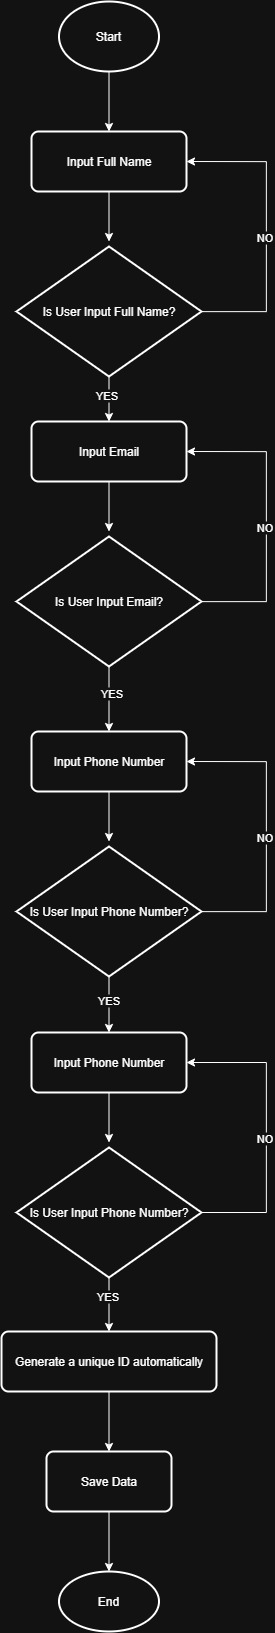
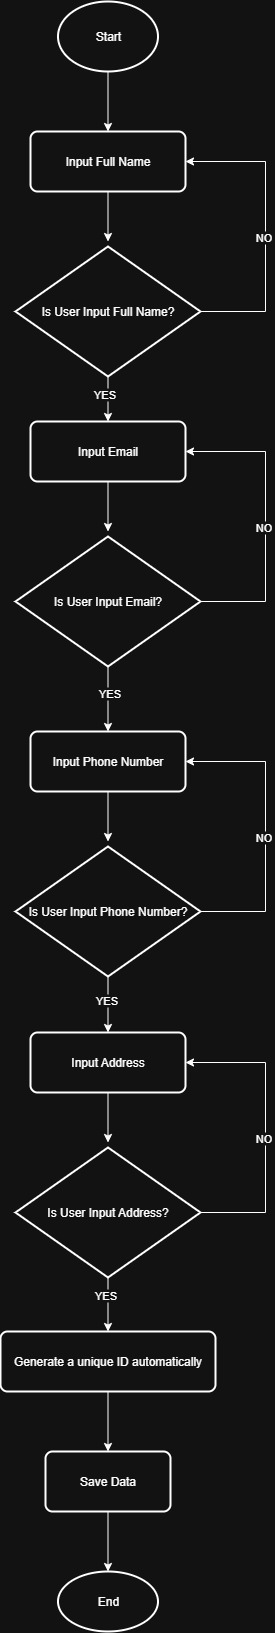
chore: add pseudocode create data contact

diff --git a/index.js b/index.js
@@ -26,3 +26,7 @@ const contactsData = [
 ];
 
 console.log(contactsData);
+
+for (let i = 0; i < contactsData.length; i++) {
+  console.log(contactsData[i]);
+}

diff --git a/psudocode.md b/psudocode.md
@@ -1,0 +1,53 @@
+## Pseudocode
+
+### Create Data Contact
+
+```
+START
+    INPUT Full Name
+    IF user input Full Name
+        INPUT Email
+        IF user input Email
+            INPUT Phone Number
+            IF user input Phone Number
+                INPUT Address
+                IF user input Address
+                    Generate unique ID
+                ELSE
+                    display, "Address is Empty"
+                END IF
+            ELSE
+                display, "Phone Number is Empty"
+            END IF
+        ELSE
+            display, "Email is Empty"
+        END IF
+    ELSE
+        display, "Full Name is Empty"
+    END IF
+END
+```
+
+### Read Data Contact
+
+```
+START
+
+END
+```
+
+### Update Data Contact
+
+```
+START
+
+END
+```
+
+### Delete Data Contact
+
+```
+START
+
+END
+```

diff --git a/README.md b/README.md
@@ -35,7 +35,7 @@ address-book
 
 - Website URL: [direcbook.bandomega.com](https://www.direcbook.bandomega.com)
 - Github Repo: [github.com/bando9/direcbook](https://github.com/bando9/direcbook)
-- Figma: [figma.com](https://www.figma.com/design/tmZRHSxdqb53fi3EC3Hpg0/direcbook)
+- Figma: [figma.com/design/tmZRHSxdqb53fi3EC3Hpg0](https://www.figma.com/design/tmZRHSxdqb53fi3EC3Hpg0/direcbook)
 
 ### Social Media
 
